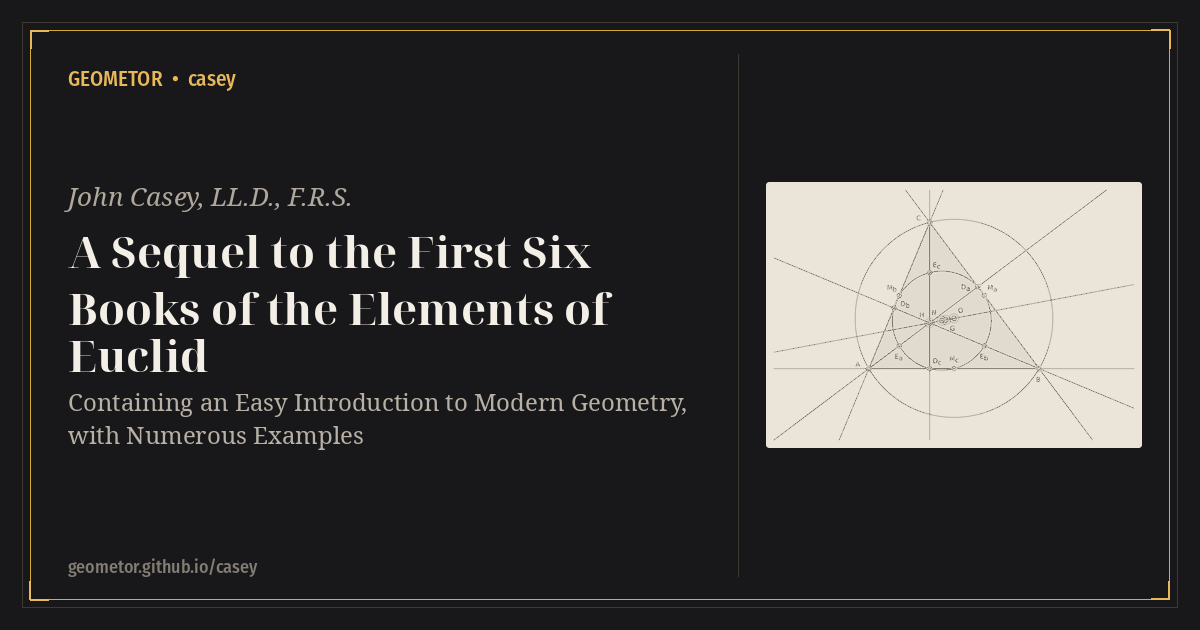
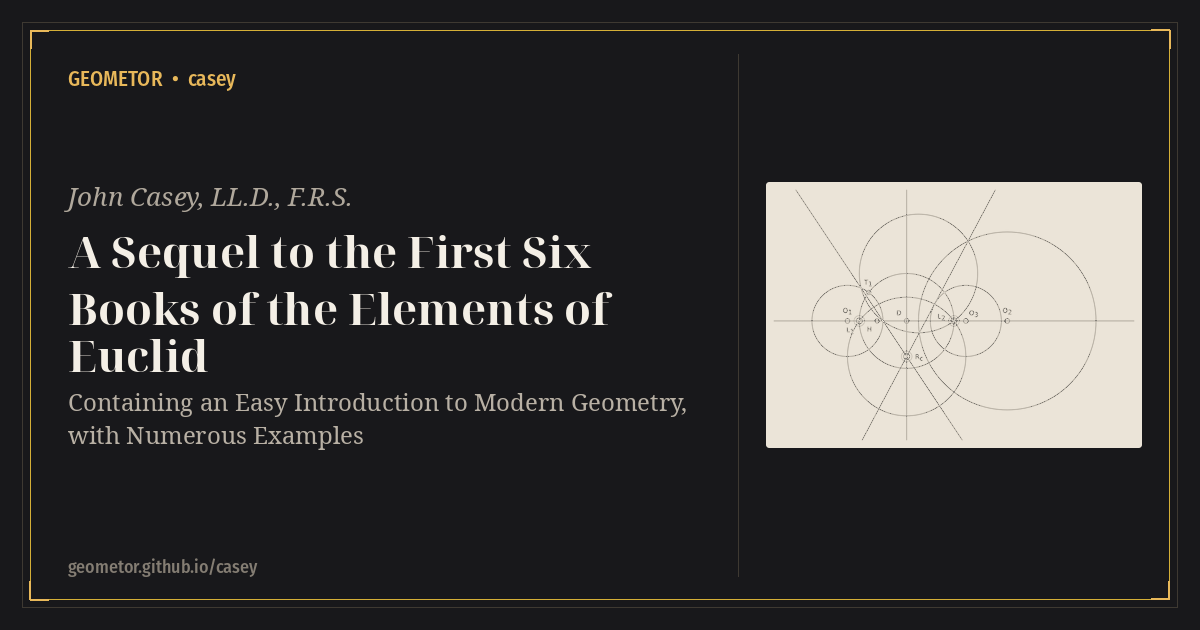
docs: add construction hero images, elevate English titles with native title tracks, and standardize track menus

Changed region(s): [[0.6475, 0.3317, 0.925, 0.6635], [0.8325, 0.573, 0.8942, 0.6032]]

diff --git a/README.rst b/README.rst
@@ -3,6 +3,11 @@ GEOMETOR • casey
 
 **Visit the Online Archive:** https://geometor.github.io/casey/
 
+.. image:: docsrc/_static/figures/unit1_euler_nine_point.svg
+   :alt: GEOMETOR • casey featured geometric construction
+   :target: https://geometor.github.io/casey/
+   :align: center
+
 **John Casey • A Sequel to the First Six Books of the Elements of Euclid • semantic digital archive**
 
 Mission

diff --git a/docsrc/sequel_to_euclid/book_03/section_02-en.rst b/docsrc/sequel_to_euclid/book_03/section_02-en.rst
@@ -2,10 +2,7 @@
 :layout: section
 :order: 2
 :folio: 0075
-:tracks:
-   - en: section_02-en
-   - summary: section_02-summary
-   - notes: section_02-notes
+:tracks: English: section_02-en | Summary: section_02-summary | Notes: section_02-notes
 
 .. _casey-book-03-sec-02:
 .. _casey-book-03-sec-02-en:

diff --git a/docsrc/sequel_to_euclid/book_03/section_02-summary.rst b/docsrc/sequel_to_euclid/book_03/section_02-summary.rst
@@ -2,10 +2,7 @@
 :layout: section
 :order: 2
 :folio: 0075
-:tracks:
-   - en: section_02-en
-   - summary: section_02-summary
-   - notes: section_02-notes
+:tracks: English: section_02-en | Summary: section_02-summary | Notes: section_02-notes
 
 .. _casey-book-03-sec-02-summary:
 

diff --git a/docsrc/sequel_to_euclid/book_03/section_02-notes.rst b/docsrc/sequel_to_euclid/book_03/section_02-notes.rst
@@ -2,10 +2,7 @@
 :layout: section
 :order: 2
 :folio: 0075
-:tracks:
-   - en: section_02-en
-   - summary: section_02-summary
-   - notes: section_02-notes
+:tracks: English: section_02-en | Summary: section_02-summary | Notes: section_02-notes
 
 .. _casey-book-03-sec-02-notes:
 

diff --git a/docsrc/sequel_to_euclid/book_06/section_02-en.rst b/docsrc/sequel_to_euclid/book_06/section_02-en.rst
@@ -1,5 +1,5 @@
 :title: Book VI, Section II — Centres and Axes of Similitude
-:tracks: section_02-summary section_02-notes
+:tracks: English: section_02-en | Summary: section_02-summary | Notes: section_02-notes
 
 .. _casey-book-06-sec-02:
 .. _casey-book-06-sec-02-en:

diff --git a/docsrc/sequel_to_euclid/book_06/section_03-en.rst b/docsrc/sequel_to_euclid/book_06/section_03-en.rst
@@ -1,5 +1,5 @@
 :title: Book VI, Section III — Theory of Harmonic Section
-:tracks: section_03-summary section_03-notes
+:tracks: English: section_03-en | Summary: section_03-summary | Notes: section_03-notes
 
 .. _casey-book-06-sec-03:
 .. _casey-book-06-sec-03-en:

diff --git a/docsrc/sequel_to_euclid/book_06/section_03-summary.rst b/docsrc/sequel_to_euclid/book_06/section_03-summary.rst
@@ -1,5 +1,5 @@
 :title: Book VI, Section III Summary — Harmonic Section & Complete Quadrilateral
-:tracks: section_03-en section_03-notes
+:tracks: English: section_03-en | Summary: section_03-summary | Notes: section_03-notes
 
 .. _casey-book-06-sec-03-summary:
 

diff --git a/docsrc/sequel_to_euclid/book_06/section_02-notes.rst b/docsrc/sequel_to_euclid/book_06/section_02-notes.rst
@@ -1,5 +1,5 @@
 :title: Book VI, Section II Notes — Monge, Homothecy & Axes of Similitude
-:tracks: section_02-en section_02-summary
+:tracks: English: section_02-en | Summary: section_02-summary | Notes: section_02-notes
 
 .. _casey-book-06-sec-02-notes:
 

diff --git a/docsrc/sequel_to_euclid/book_06/section_03-notes.rst b/docsrc/sequel_to_euclid/book_06/section_03-notes.rst
@@ -1,5 +1,5 @@
 :title: Book VI, Section III Notes — Pappus, Chasles & Harmonic Section
-:tracks: section_03-en section_03-summary
+:tracks: English: section_03-en | Summary: section_03-summary | Notes: section_03-notes
 
 .. _casey-book-06-sec-03-notes:
 

diff --git a/docsrc/sequel_to_euclid/book_06/section_02-summary.rst b/docsrc/sequel_to_euclid/book_06/section_02-summary.rst
@@ -1,5 +1,5 @@
 :title: Book VI, Section II Summary — Centres and Axes of Similitude
-:tracks: section_02-en section_02-notes
+:tracks: English: section_02-en | Summary: section_02-summary | Notes: section_02-notes
 
 .. _casey-book-06-sec-02-summary:
 

diff --git a/docsrc/sequel_to_euclid/book_04/section_01-en.rst b/docsrc/sequel_to_euclid/book_04/section_01-en.rst
@@ -2,7 +2,7 @@
 :order: 1
 :layout: section
 :folio: 0079
-:tracks: section_01-summary, section_01-notes
+:tracks: English: section_01-en | Summary: section_01-summary | Notes: section_01-notes
 
 .. _casey-book-04-sec-01:
 .. _casey-book-04-sec-01-en:

diff --git a/docsrc/sequel_to_euclid/book_04/section_02-en.rst b/docsrc/sequel_to_euclid/book_04/section_02-en.rst
@@ -2,7 +2,7 @@
 :order: 2
 :layout: section
 :folio: 0090
-:tracks: section_02-summary, section_02-notes
+:tracks: English: section_02-en | Summary: section_02-summary | Notes: section_02-notes
 
 .. _casey-book-04-sec-02:
 .. _casey-book-04-sec-02-en:
